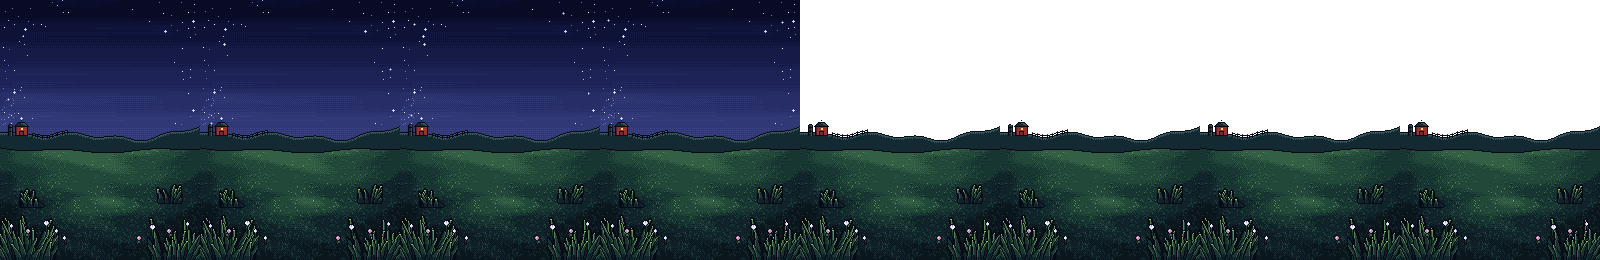
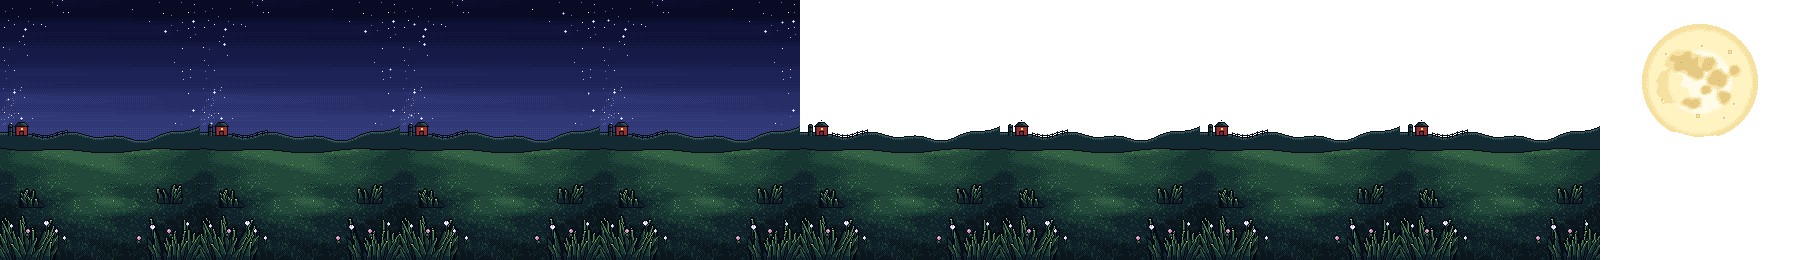
Moo's moonrise: the moon in the land's own picture, drawn only once it has decoded
Eric, Nov 20, live: on a cold load the moon showed for a few frames before
the land. The moon (2 KB) and the field's layers (27 KB) were two pictures;
now the moon is the layers' ninth frame, and the layered rise is drawn only
once that picture has decoded, else the field's own picture for the whole rise.

Claude-Session: https://claude.ai/code/session_01JuCWRrhvXtSTnN71LiL3h8

Changed region(s): [[0.0, 0.0, 1.0, 1.0]]

diff --git a/packages/app/src/components/MooCinematic.tsx b/packages/app/src/components/MooCinematic.tsx
@@ -14,8 +14,8 @@
  * 5. He hops back to his spot (his powered `move`).
  * Two pictures in one sheet (characters/moo-cinematic.png: the field's four frames, its stars twinkling, and the close-up's five,
  * normal to white eyes; drawn on claude/boss-art: scripts/boss-art/out/arena-moo-field and scripts/boss-art/moo-closeup), the field's
- * moon lifted as its own sprite (characters/moo-moon.png, scripts/lift-moo-moon.py) rising between the field's sky without it and its
- * front (characters/moo-field-layers.png, scripts/lift-moo-field.py), his own sprite over the field, and opacities:
+ * moon rising between the field's sky without it and its front, all three lifted from its pixels into one picture
+ * (characters/moo-field-layers.png, scripts/lift-moo-field.py), his own sprite over the field, and opacities:
  * no filters. The light is the Hidden Boss's (recluse-light.ts), on one canvas the size of the screen drawn in its worker, off the
  * main thread, only while it's up. Everything from the moment's start, so a screen drawn
  * later carries on (a device that first sees it as it rejoins skips it: Moo.tsx, fullMoonMoment). While the field is up it takes
@@ -26,7 +26,6 @@ import { useLayoutEffect, useRef } from "preact/hooks";
 import { MOO_CINEMATIC as C } from "@chessroyale/core";
 import { MOO_BEATS } from "@chessroyale/chess";
 import sheetUrl from "../characters/moo-cinematic.png?url";
-import moonUrl from "../characters/moo-moon.png?url";
 import layersUrl from "../characters/moo-field-layers.png?url";
 import { bossKit } from "../characters/kits.ts";
 import { BossMoment } from "./BossEffect.tsx";
@@ -42,13 +41,19 @@ const H = 260;
 const FIELD = [0, 1, 2, 3];
 const FIELD_MS = 400;
 const CLOSE = [4, 5, 6, 7, 8];
-/** The field's layers (characters/moo-field-layers.png): its sky without the moon, four frames, then its front, four frames. */
+/**
+ * The field's layers (characters/moo-field-layers.png): its sky without the moon, four frames, then its front, four frames, then the
+ * moon in its own place. One picture, so the moon can never be drawn before the land (Eric, Nov 20, on a cold load: "you can see the
+ * moon behind the land because the moon loaded first"; docs/decisions/2026-11-20-moonrise-load-order.md).
+ */
 const SKY = [0, 1, 2, 3];
 const FRONT = [4, 5, 6, 7];
+const MOON_FRAME = 8;
+const LAYER_FRAMES = 9;
 /** Where he stands in the field (art pixels): the field was drawn with this patch clear for him. */
 const SPOT: readonly [number, number] = [100, 205];
 
-/** The field's moon (art pixels): its sprite's box in the field (scripts/lift-moo-moon.py) and its middle. */
+/** The field's moon (art pixels): its box in the field (scripts/lift-moo-field.py) and its middle. */
 const MOON = { x: 42, y: 24, w: 116, h: 113, cx: 100, cy: 80.5 };
 /** The moon's side of the close-up (shares of the picture: above the two of them, to the left, where its light streaks come from). */
 const LIGHT_FROM: readonly [number, number] = [0.14, -0.06];
@@ -168,14 +173,22 @@ function spotBox(): Box | null {
   return r && r.width ? { x: r.x, y: r.y, w: r.width } : null;
 }
 
-/** The pictures fetched and decoded ahead, as his battle starts (Moo.tsx, prewarmMoo): never a blank first frame. */
+/**
+ * The pictures fetched and decoded ahead, as his battle starts (Moo.tsx, prewarmMoo): never a blank first frame. The rising moon's
+ * layers are drawn only once their picture has decoded (`layersReady`); a Full Moon that comes before then (a cold load, a slow
+ * network) draws the field's own single picture for its whole rise instead, its moon already in place behind the hills, so no frame
+ * ever shows the moon without the land over it.
+ */
 let sheet: HTMLImageElement[] | null = null;
+let layersReady = false;
 export function prewarmCinematic(): void {
   if (sheet || typeof Image === "undefined") return;
-  sheet = [sheetUrl, moonUrl, layersUrl].map((src) => {
+  sheet = [sheetUrl, layersUrl].map((src) => {
     const im = new Image();
     im.src = src;
-    im.decode?.().catch(() => undefined);
+    const ok = im.decode ? im.decode() : new Promise<void>((res, rej) => ((im.onload = () => res()), (im.onerror = rej)));
+    if (src === layersUrl) ok.then(() => (layersReady = true)).catch(() => undefined);
+    else ok.catch(() => undefined);
     return im;
   });
 }
@@ -217,6 +230,8 @@ export function MooCinematic({ at, name }: { at: number; name: string }) {
     };
   }, [lit]);
   const frame = useRef<LightFrame | null>(null);
+  // (Whether this Full Moon's field rises in layers, decided once, before its first frame: never switched mid-rise.)
+  const layers = useRef<{ at: number; on: boolean } | null>(null);
   useLayoutEffect(() => {
     const f = frame.current;
     if (!f) return;
@@ -229,6 +244,8 @@ export function MooCinematic({ at, name }: { at: number; name: string }) {
   const rect = on ? boardOnScreen()?.getBoundingClientRect() : null;
   if (!rect || !rect.width || !kit) return null;
   const b = cineBeats();
+  if (t >= b.landed && layers.current?.at !== at) layers.current = { at, on: layersReady };
+  const layered = layers.current?.at === at && layers.current.on;
   // The area: the board and everything above it.
   const computer = onComputer();
   const area = { x: computer ? rect.x : 0, y: 0, w: computer ? rect.width : innerWidth, h: rect.bottom };
@@ -267,8 +284,9 @@ export function MooCinematic({ at, name }: { at: number; name: string }) {
   // blind; review, #1 and #4. On the hops the board shows, and takes taps as ever.)
   const fieldUp = fieldOpacity(t) > 0;
   // The moon rising: the field's, lifted, its middle where the field's is (less `y`), in whole screen pixels, between the field's sky
-  // without it and its front (the hills, the barn, the grass), so it's always behind them.
-  const m = moonAt(t);
+  // without it and its front (the hills, the barn, the grass), so it's always behind them. Its layers not decoded in time: the
+  // field's own picture, its moon in its end's place.
+  const m = layered ? moonAt(t) : null;
   const ab = m && moonArtBox(m);
   const moonBox = ab && { x: Math.round(field.x + ab.x * k), y: Math.round(field.y + ab.y * k), w: Math.round(ab.w * k), h: Math.round(ab.h * k) };
   // The light: from the moon's middle in the field; from the moon's side of the close-up after the cut (under the white, unseen).
@@ -277,7 +295,7 @@ export function MooCinematic({ at, name }: { at: number; name: string }) {
     const s = lightNow(t, T);
     s.shaft = 0;
     const toClose = t >= b.close;
-    const mm = moonMiddle(t);
+    const mm = m ? { x: MOON.cx, y: MOON.cy + m.y } : moonMiddle(b.close);
     const mid = toClose
       ? { x: area.x + close.x + LIGHT_FROM[0] * close.w, y: area.y + close.y + LIGHT_FROM[1] * close.h }
       : { x: area.x + field.x + mm.x * k, y: area.y + field.y + mm.y * k };
@@ -290,11 +308,14 @@ export function MooCinematic({ at, name }: { at: number; name: string }) {
   return createPortal(
     <div class="mo-cine" data-t={Math.round(t)}>
       <div class={`mo-area${fieldUp ? " mo-block" : ""}`} style={{ left: `${area.x}px`, top: `${area.y}px`, width: `${area.w}px`, height: `${area.h}px` }}>
-        {m ? pic(SKY[fieldFrame]!, fieldOpacity(t), "mo-field", field, layersUrl, 8) : pic(FIELD[fieldFrame]!, fieldOpacity(t), "mo-field", field)}
+        {m ? pic(SKY[fieldFrame]!, fieldOpacity(t), "mo-field", field, layersUrl, LAYER_FRAMES) : pic(FIELD[fieldFrame]!, fieldOpacity(t), "mo-field", field)}
         {moonBox && m!.opacity > 0 && (
-          <div class="mo-bigmoon" style={{ left: `${moonBox.x}px`, top: `${moonBox.y}px`, width: `${moonBox.w}px`, height: `${moonBox.h}px`, opacity: String(m!.opacity), backgroundImage: `url(${moonUrl})` }} />
+          <div
+            class="mo-bigmoon"
+            style={{ left: `${moonBox.x}px`, top: `${moonBox.y}px`, width: `${moonBox.w}px`, height: `${moonBox.h}px`, opacity: String(m!.opacity), backgroundImage: `url(${layersUrl})`, backgroundSize: `${(W * LAYER_FRAMES * moonBox.w) / MOON.w}px ${(H * moonBox.h) / MOON.h}px`, backgroundPosition: `${(-(MOON_FRAME * W + MOON.x) * moonBox.w) / MOON.w}px ${(-MOON.y * moonBox.h) / MOON.h}px` }}
+          />
         )}
-        {m && pic(FRONT[fieldFrame]!, fieldOpacity(t), "mo-front", field, layersUrl, 8)}
+        {m && pic(FRONT[fieldFrame]!, fieldOpacity(t), "mo-front", field, layersUrl, LAYER_FRAMES)}
         {pic(CLOSE[closeFrame(t)]!, closeOpacity(t), "mo-close", close)}
         {litOn > 0 && (
           <div

diff --git a/e2e/moo.spec.ts b/e2e/moo.spec.ts
@@ -14,6 +14,8 @@ import { plainLine } from "../packages/app/src/speech-icons.ts";
  * - The Full Moon (?power=fullmoon): the warning, the transformation while he thinks, the flurry's five beams 120 ms apart all
  *   holding together, every animation of his drawn powered up (the gold of his fur on his canvas) through his five moves,
  *   then dazed, and his colors back. The Moon says his lines.
+ * - The Full Moon on a cold load (Nov 20): the field's layers' picture held back; the moon never shows before the land: that rise draws
+ *   the field's own picture throughout.
  * - His icons in a line: drawn as pixel images in the bubble, the plain words for a screen reader, the long lines whole and in
  *   view at 320, 360, 390 and 1280 px.
  * - He hugs the moon, now and then sits on it and hugs it again, at rest and never during a moment.
@@ -90,13 +92,31 @@ async function record(page: Page) {
         cine: document.querySelector(".mo-cine")
           ? [...document.querySelectorAll<HTMLElement>(".mo-pic")].map((e) => `${e.classList.contains("mo-close") ? "close" : e.classList.contains("mo-front") ? "front" : "field"}:${e.dataset.frame}:${e.style.opacity}`)
           : null,
-        // (The rising moon: its top on screen, and whether the field's front, the hills and the grass, is drawn over it.)
+        // (The rising moon: its top on screen, whether the field's front, the hills and the grass, is drawn over it, and whether the
+        // picture they're drawn from had arrived: its fetch done, Nov 20.)
         bigMoon: (() => {
           const m = document.querySelector<HTMLElement>(".mo-bigmoon");
           const f = document.querySelector<HTMLElement>(".mo-front");
           if (!m) return null;
           const z = (e: HTMLElement) => Number(getComputedStyle(e).zIndex);
-          return { top: m.getBoundingClientRect().top, frontOver: !!f && f.parentElement === m.parentElement && z(f) > z(m) };
+          const url = (e: HTMLElement | null) => e?.style.backgroundImage.match(/url\("?([^")]+)/)?.[1] ?? "";
+          // (A picture the page already holds is complete at once.)
+          const arrived = (u: string) => {
+            if (!u) return false;
+            const im = new Image();
+            im.src = u;
+            return im.complete && im.naturalWidth > 0;
+          };
+          return {
+            top: m.getBoundingClientRect().top,
+            frontOver: !!f && f.parentElement === m.parentElement && z(f) > z(m) && Number(f.style.opacity) >= Number(m.style.opacity),
+            arrived: arrived(url(m)) && arrived(url(f)),
+          };
+        })(),
+        // (The field's picture: "layers" (the sky without its moon, under the moon and the front) or "sheet" (the field's own).)
+        fieldPic: (() => {
+          const e = document.querySelector<HTMLElement>(".mo-field");
+          return e ? (e.style.backgroundImage.includes("moo-field-layers") ? "layers" : "sheet") : null;
         })(),
         moments: [...document.querySelectorAll(".power-moment")].map((e) => e.className.replace("power-moment", "").trim()),
         // (What a tap on the board's middle would reach: the cinematic's field, while it's up, or the board.)
@@ -127,7 +147,8 @@ type Rec = {
   casterGold: number | null;
   /** The Full Moon's cinematic, while it's up: each picture showing, "field", "front" (the field's hills and grass) or "close", its frame and opacity. */
   cine: string[] | null;
-  bigMoon: { top: number; frontOver: boolean } | null;
+  bigMoon: { top: number; frontOver: boolean; arrived: boolean } | null;
+  fieldPic: "layers" | "sheet" | null;
   moments: string[];
   /** Whether a tap on the board's middle would land on the cinematic (its field takes taps while it's up). */
   tapCine: boolean | null;
@@ -318,6 +339,7 @@ test("Moo & Moon: the Full Moon warns, its cinematic plays (the field, the close
   const moons = rec.flatMap((r) => (r.bigMoon ? [r.bigMoon] : []));
   expect(moons.length, "the moon rises in the field").toBeGreaterThan(10);
   expect(moons.every((m) => m.frontOver), "the hills and the grass are over the moon").toBe(true);
+  expect(moons.every((m) => m.arrived), "the moon only once its picture, the land's too, has arrived").toBe(true);
   expect(moons.at(-1)!.top, "the moon rises").toBeLessThan(moons[0]!.top - 20);
   expect(rec.filter((r) => !r.cine && r.phase === "play").every((r) => r.tapCine === false), "the board takes them again after").toBe(true);
   const cineEnd = cine.at(-1)!.i;
@@ -358,6 +380,43 @@ test("Moo & Moon: the Full Moon warns, its cinematic plays (the field, the close
   expect(MOO_LINES.dazed!.map(plainLine).some((l) => said.has(l)), "the daze's line").toBe(true);
   // The moon on his meter went from new to full as it filled.
   expect(Math.max(...rec.map((r) => Number(r.moon ?? 0)))).toBe(8);
+  expect(errors).toEqual([]);
+});
+
+test("Moo & Moon's Full Moon on a cold load: the moon never shows before the land; layers that arrive late leave the field's own picture for the whole rise (Nov 20)", async ({ page }) => {
+  test.skip(desktop(), "one run is enough: a phone");
+  test.setTimeout(120_000);
+  const errors: string[] = [];
+  page.on("pageerror", (e) => errors.push(e.message));
+  // (Eric, Nov 20, live: "The first few frames you can see the moon behind the land because the moon loaded first." The field's layers'
+  // picture held back until the cinematic is under way: a slow network on a fresh load.)
+  let release!: () => void;
+  const held = new Promise<void>((r) => (release = r));
+  await page.route("**/moo-field-layers*.png", async (route) => {
+    await held;
+    await route.continue();
+  });
+  await page.goto("/?debug&nolanding&clock=60&laststand=0&boss=moo&power=fullmoon");
+  await bossAloneFromHome(page);
+  await record(page);
+  // (?power=fullmoon: the warning as the 2nd turn begins, the Full Moon as your 2nd move lands.)
+  for (let i = 0; i < 2; i++) {
+    await yourMove(page);
+    const s = await state(page);
+    await submitMove(page, quiet(s.fen, s.allowed), s.fen);
+    await expect.poll(() => phase(page), { timeout: 20_000 }).not.toBe("play");
+  }
+  await page.locator(".mo-cine").waitFor({ timeout: 30_000 });
+  await expect.poll(async () => (await recorded(page)).some((r) => r.fieldPic), { timeout: 10_000 }).toBe(true);
+  // (The picture arrives as the moon would be rising: too late for this one, which never switches mid-rise.)
+  release();
+  await expect(page.locator(".mo-cine")).toHaveCount(0, { timeout: 30_000 });
+  const rec = await recorded(page);
+  const field = rec.filter((r) => r.fieldPic);
+  expect(field.length, "the field shows").toBeGreaterThan(10);
+  expect(rec.every((r) => !r.bigMoon || (r.bigMoon.arrived && r.bigMoon.frontOver)), "no moon before the land").toBe(true);
+  expect(rec.some((r) => r.bigMoon), "this rise kept the field's own picture").toBe(false);
+  expect(field.every((r) => r.fieldPic === "sheet")).toBe(true);
   expect(errors).toEqual([]);
 });
 

diff --git a/packages/app/test/moo-wired.test.ts b/packages/app/test/moo-wired.test.ts
@@ -1,3 +1,4 @@
+import { readFileSync } from "node:fs";
 import { afterEach, describe, expect, it } from "vitest";
 import { BOSS_ROSTER, MOO_CINEMATIC, bossBannerMs, isPlayable, menuBosses, playableBosses, type PowerEvent } from "@chessroyale/core";
 import { KING_ATTACKERS, MOO_BEATS, MOO_FX, POWER_FX, START_FEN, bossThinkMs, fullMoonLeadMs, fullMoonMs } from "@chessroyale/chess";
@@ -287,6 +288,9 @@ describe("the Full Moon's cinematic", () => {
       expect(steps[i]!.y).toBeLessThan(steps[i - 1]!.y);
       expect(steps[i]!.scale).toBeGreaterThanOrEqual(steps[i - 1]!.scale);
     }
+    // One picture for the sky, the front and the moon (Nov 20: on a cold load the moon's own came first, before the land): nine frames.
+    const png = readFileSync(new URL("../src/characters/moo-field-layers.png", import.meta.url));
+    expect([png.readUInt32BE(16), png.readUInt32BE(20)]).toEqual([9 * 200, 260]);
     // Behind the hill line (the front layer's solid rows, MOO_HORIZON): its rows there are hidden. It starts about half hidden, rises
     // until it's clear of it, and its top always stays in the sky (inside the field, never off its top).
     const hidden = (m: { scale: number; y: number }) => {

diff --git a/packages/core/src/settings.ts b/packages/core/src/settings.ts
@@ -2478,8 +2478,8 @@ export const MOO_CINEMATIC = {
   /**
    * The moon rising (Eric, Nov 20: "the moon should start half hidden behind the horizon/grassy hill and then move upward into the sky
    * for a few seconds (same timing as is now), moon should never be in front of the background hill terrain"; it came down like a
-   * meteor before that day's second change): the field's own moon, lifted as a sprite (characters/moo-moon.png), behind the field's
-   * hills, barn and grass (characters/moo-field-layers.png: the sky without its moon, then the front), from the field fading in to the
+   * meteor before that day's second change): the field's own moon, lifted, behind the field's hills, barn and grass (one picture,
+   * characters/moo-field-layers.png: the sky without its moon, the front, the moon), from the field fading in to the
    * cut, `scale` times the field's and `y` art pixels below the field's moon, from `moonFrom` (its middle on the hill line, half
    * hidden) to `moonTo` (the field's own moon's place: the field after the close-up is the same picture), easing out as it rises (its
    * progress 1 − (1 − p) to the power `moonEase`).

diff --git a/packages/app/src/styles.css b/packages/app/src/styles.css
@@ -23305,7 +23305,6 @@ body.mo-on .mm-scrim {
 .mo-bigmoon {
   position: absolute;
   z-index: 1;
-  background-size: 100% 100%;
   background-repeat: no-repeat;
   image-rendering: pixelated;
 }

diff --git a/scripts/lift-moo-field.py b/scripts/lift-moo-field.py
@@ -1,10 +1,13 @@
-"""Splits Moo & Moon's field (characters/moo-cinematic.png, its four frames) into two layers, so the Full Moon's moon can rise from
-behind the hill (Eric, Nov 20: "the moon should start half hidden behind the horizon/grassy hill and then move upward into the sky
+"""Splits Moo & Moon's field (characters/moo-cinematic.png, its four frames) into three layers in one picture, so the Full Moon's moon
+can rise from behind the hill (Eric, Nov 20: "the moon should start half hidden behind the horizon/grassy hill and then move upward into the sky
 ... moon should never be in front of the background hill terrain"; docs/decisions/2026-11-20-moo-moonrise.md):
   - the sky without its moon (frames 0 to 3): the field's own sky, its moon and the moon's glow round it filled from the sky on either
     side of them in the same row (the sky's own colors, dithered as the art's), its stars kept;
   - the front (frames 4 to 7): everything from the hill line down (the hills, the barn and silo, the fence, the grass and flowers),
-    the field's own pixels, the sky above and between them see-through.
+    the field's own pixels, the sky above and between them see-through;
+  - the moon (frame 8): the field's own moon in its own place, the sky round it see-through (the four frames share it; only their
+    stars twinkle). In the same picture as the sky and the front, so the three can never arrive apart (Eric, Nov 20: on a cold load
+    "you can see the moon behind the land because the moon loaded first"; docs/decisions/2026-11-20-moonrise-load-order.md).
 Nothing drawn: every pixel is the field's own, or one of its sky's colors. Also writes the hill line per art column
 (characters/moo-horizon.ts) for the tests.
   python3 scripts/lift-moo-field.py   ->  packages/app/src/characters/moo-field-layers.png, moo-horizon.ts
@@ -22,6 +25,8 @@ GLOW = R + 30
 BANDS = [(9, 11, 36), (14, 18, 54), (21, 26, 71), (29, 35, 87), (38, 45, 103), (49, 56, 118), (61, 68, 133), (79, 83, 143), (103, 104, 157), (111, 118, 182)]
 STARS = [(184, 194, 240), (255, 255, 255)]
 SKY = set(BANDS) | set(STARS)
+# The moon's box in the field (art pixels): columns 42 to 157, rows 24 to 136 (its bottom tip touches the hills at 137).
+MX0, MY0, MX1, MY1 = 42, 24, 158, 137
 # A 2 x 2 ordered dither: which of two neighboring colors a pixel takes for a share between them.
 BAYER = [[0.125, 0.625], [0.875, 0.375]]
 
@@ -93,7 +98,17 @@ for y, (xl, xr, _, _) in raw.items():
     near = [raw[k] for k in range(y - EASE, y + EASE + 1) if k in raw]
     rows[y] = (xl, xr, sum(n[2] for n in near) / len(near), sum(n[3] for n in near) / len(near))
 
-out = Image.new("RGBA", (W * FRAMES * 2, H), (0, 0, 0, 0))
+out = Image.new("RGBA", (W * (FRAMES * 2 + 1), H), (0, 0, 0, 0))
+# The moon (frame 8): the moon's own pixels (warm, the sky's cool: red over blue) inside its disc.
+holes = 0
+for y in range(MY0, MY1):
+    for x in range(MX0, MX1):
+        r, g, b = f0.getpixel((x, y))
+        if in_disc(x, y, R) and r > b:
+            out.putpixel((FRAMES * 2 * W + x, y), (r, g, b, 255))
+        elif in_disc(x, y, R - 3):
+            holes += 1
+assert holes == 0, f"{holes} sky pixels inside the moon"
 for i, f in enumerate(frames):
     sky = f.copy()
     front = Image.new("RGBA", (W, H), (0, 0, 0, 0))
